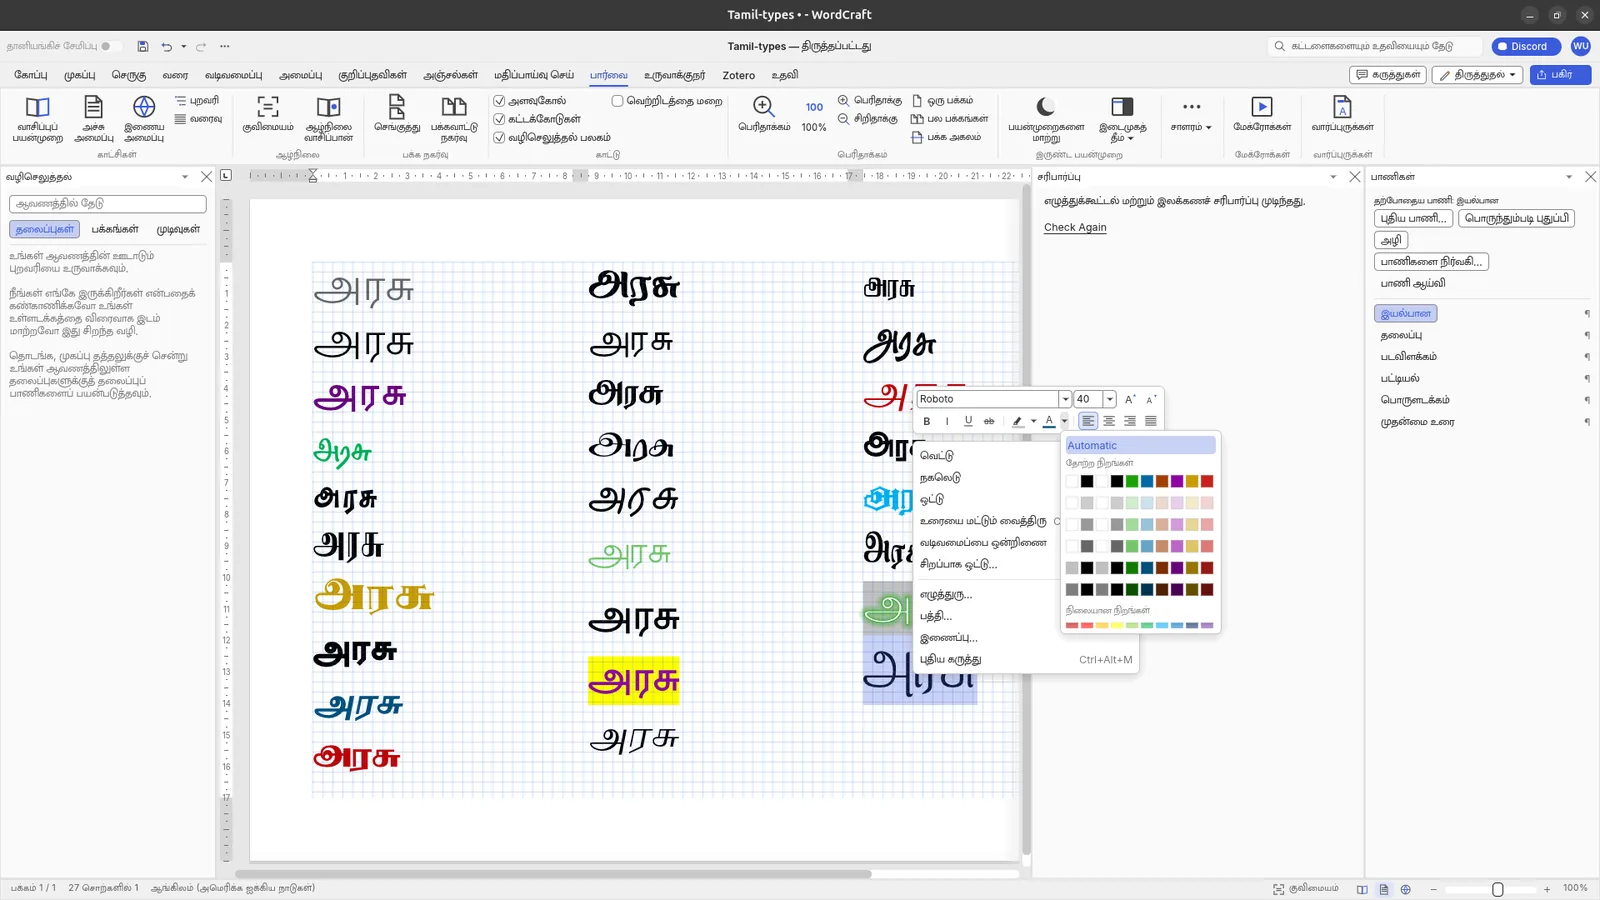
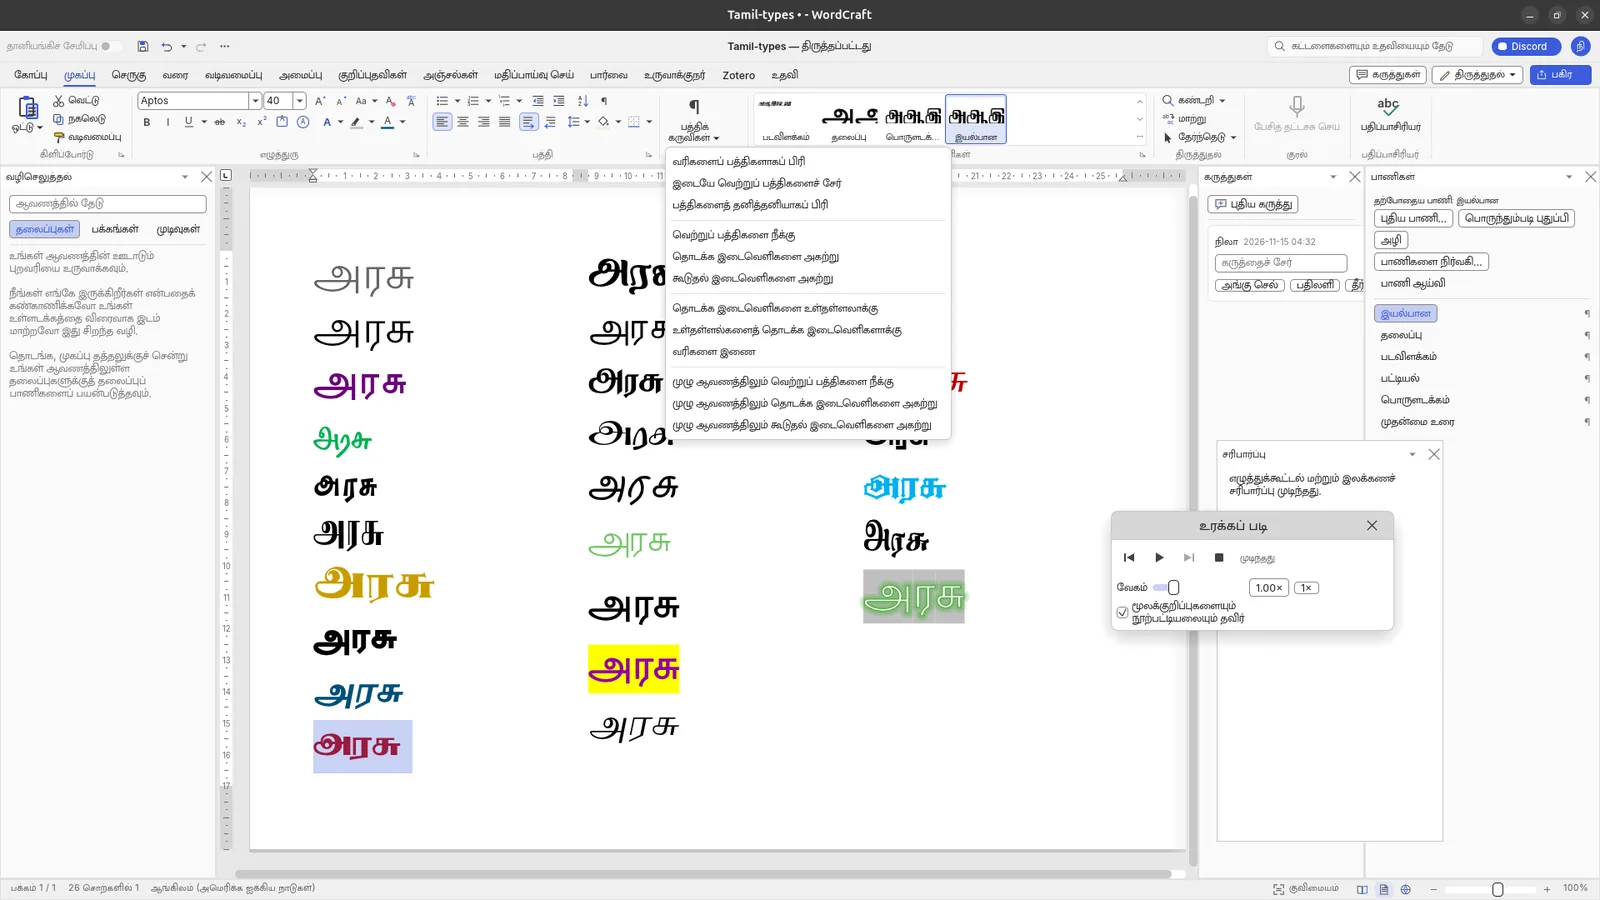
WordCraft: new Tamil screenshot with the Paragraph Tools menu

diff --git a/index.html b/index.html
@@ -313,9 +313,9 @@ dialog img { display: block; width: 100%; height: auto; max-height: 82vh; object
         <tr>
           <td><div class="app"><strong>WordCraft</strong><span>Word processing</span></div></td>
           <td data-label="Tamil screenshot">
-            <button class="shot" type="button" data-full="shots/wordcraft-ta.webp" data-cap="WordCraft in Tamil: the View tab, the Navigation, Spelling and Styles panes, and the context menu with the colour picker over a page of Tamil type samples (15 Nov 2026)">
-              <img src="shots/wordcraft-ta.webp" alt="WordCraft with the Tamil View tab, side panes and context menu over a page of Tamil type samples" loading="lazy">
-              <span class="cap">View tab and context menu · 15 Nov</span>
+            <button class="shot" type="button" data-full="shots/wordcraft-ta.webp" data-cap="WordCraft in Tamil: the Home tab with the Paragraph Tools menu open, the Navigation, Comments, Spelling and Styles panes and the Read Aloud bar, over a page of Tamil type samples (15 Nov 2026)">
+              <img src="shots/wordcraft-ta.webp" alt="WordCraft with the Tamil Home tab and Paragraph Tools menu open, side panes and the Read Aloud bar over a page of Tamil type samples" loading="lazy">
+              <span class="cap">Paragraph Tools menu · 15 Nov</span>
             </button>
           </td>
           <td data-label="Tamil catalog"><span class="mono">wordcraft.tsv</span> in craft-i18n #226</td>
